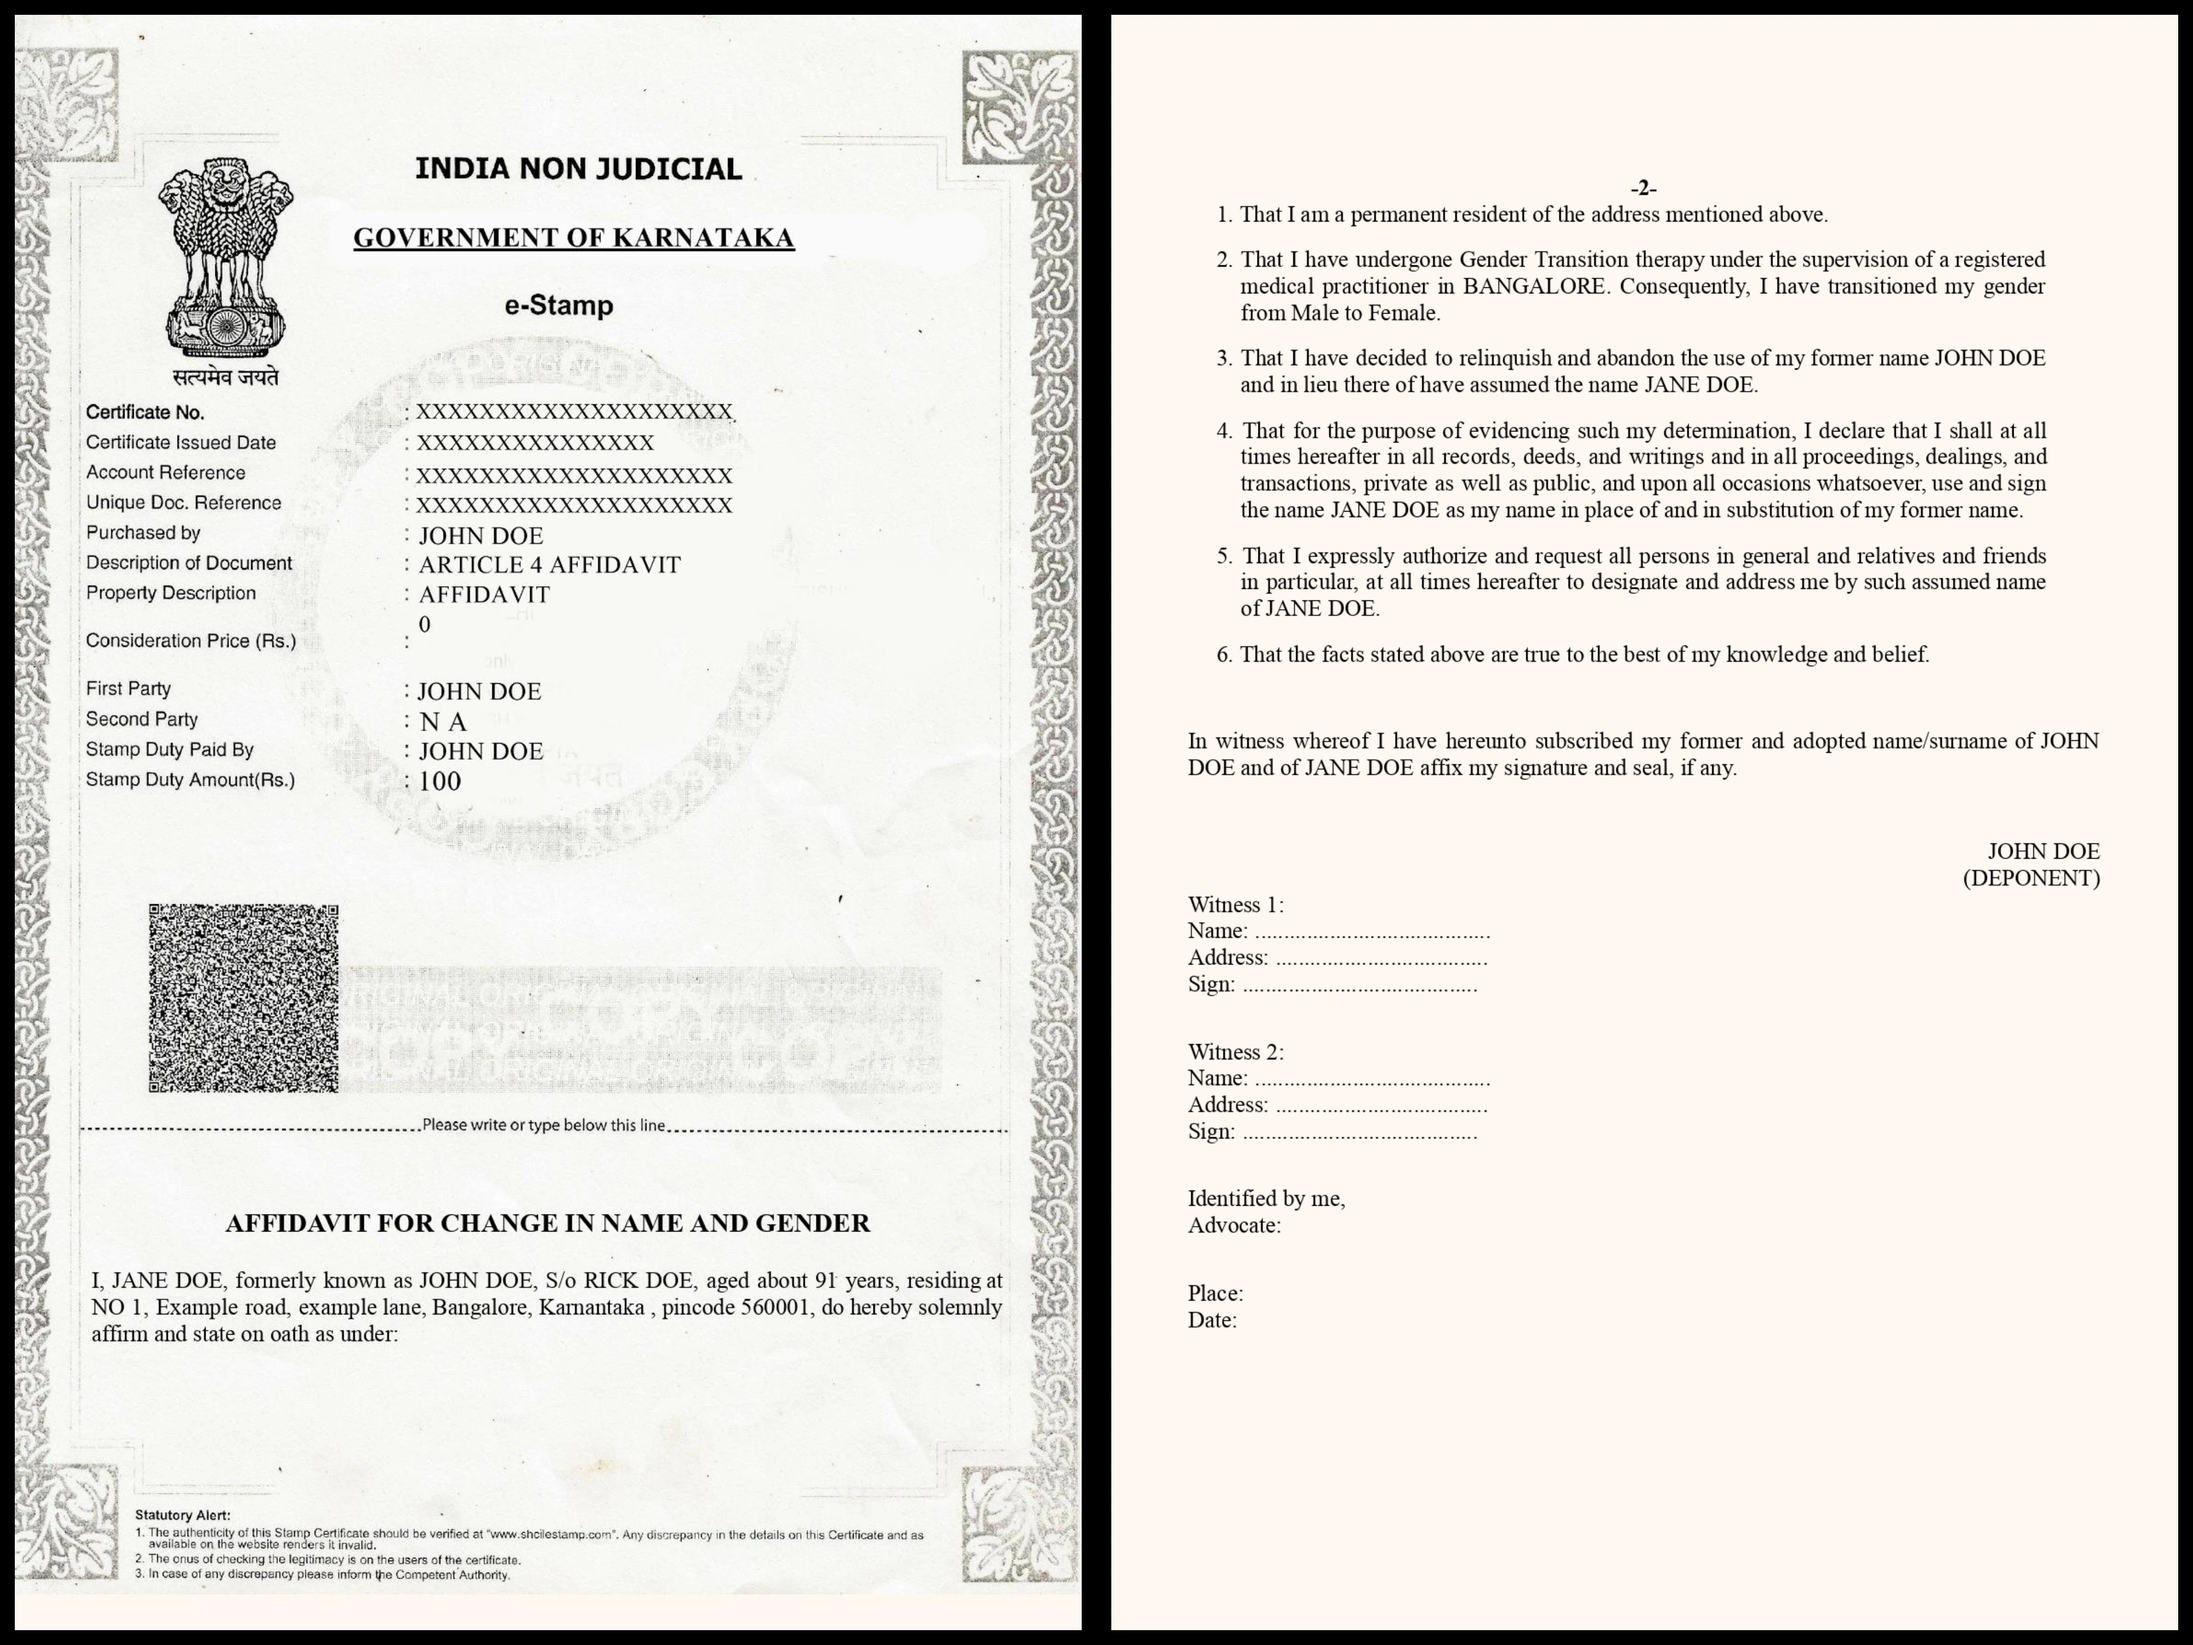
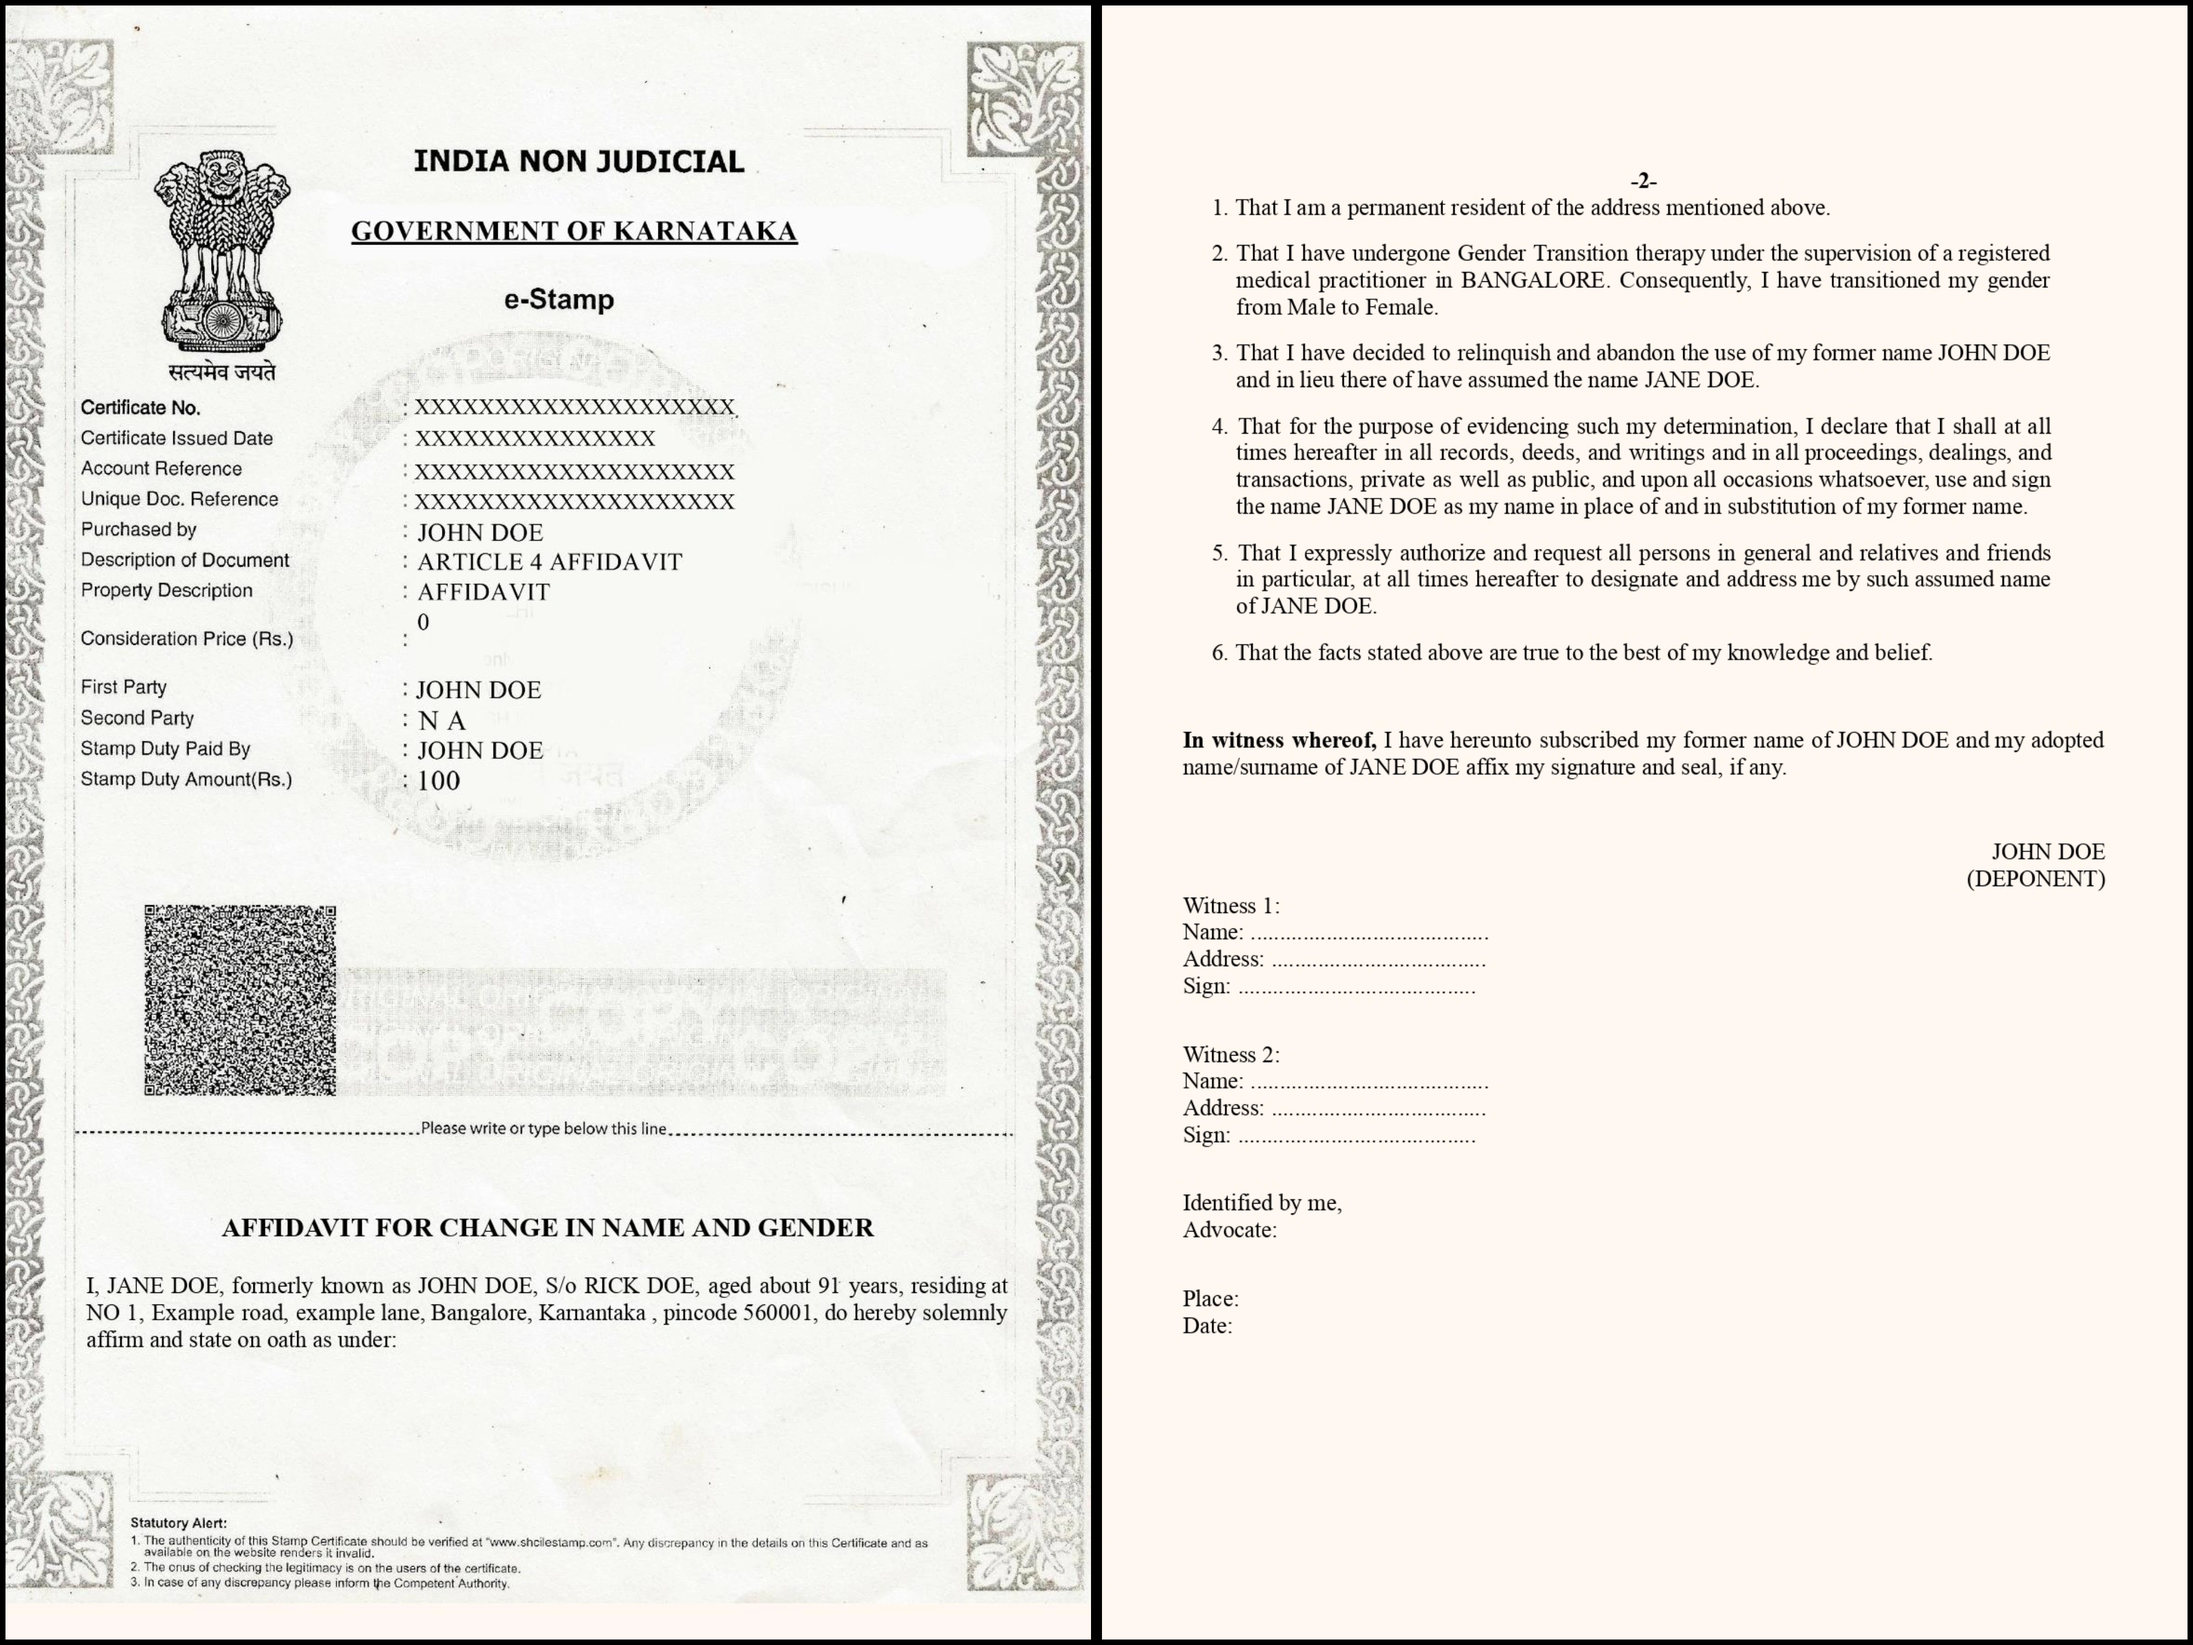
x

diff --git a/index.html b/index.html
@@ -137,15 +137,7 @@ details[open] summary {
   margin-top: 10px;
 }
 
-@media (min-width: 768px) {
-  body::before {
-    content: "This tool is optimized for mobile 📱";
-    display: block;
-    text-align: center;
-    padding: 20px;
-    background: #111;
-    color: white;
-  }
+
 
   h1 {
     font-size: 2.1rem;
@@ -160,6 +152,8 @@ details[open] summary {
 <div class="nav">
   <a href="index.html">Guide</a>
   <a href="generator.html">Generator</a>
+  <a href="State-gazette.html">State Gazette</a>
+   <a href="Check-Notification.html">Check Weekly <br> Gazette Notification</a>
   <a href="support.html" style="font-weight:bold;">Support</a>
 
   <img src="assets/trans.gif" class="nav-flag" alt="Trans Flag">
@@ -296,10 +290,10 @@ Preserve multiple physical copies safely for future updates such as Passport.
 </p>
 
 <details class="ref-image">
-<summary> Reference Image</summary>
+<summary> Example Advert</summary>
 
 <div class="details-content">
-<img src="" class="placeholder" alt="Newspaper Advert">
+<img src="ref/Advert_example.webp" alt="Example Advert" loading="lazy">
 </div>
 </details>
 <div class="details-content">
@@ -331,10 +325,10 @@ https://ads.timesofindia.com/
 <p><b>Booking Steps:</b></p>
 
 <p>
-Book commercial ads → Select category: <b>Tenders and Notices</b> →  
-Select type: <b>Display Ad Single Column</b> →  
-Select ad design & city →  
-"I wish to place ad in": <b>Bangalore</b> → Continue →
+Book commercial ads <br>→ Select category: <b>Tenders and Notices</b> <br>→  
+Select type: <b>Display Ad Single Column</b> <br>→  
+Select ad design & city <br>→  
+"I wish to place ad in": <b>Choose your District/City</b> <br>→ Continue <br>
 </p>
 
 <p>
@@ -342,9 +336,9 @@ If prompted, sign in (use your <b>dead name</b> so invoice matches).
 </p>
 
 <p>
-Header: <b>PUBLIC NOTICE</b> →  
-Select individual editions → Choose <b>Economic Times Bangalore</b> →  
-Number of ads: <b>1</b> →  
+Header: <b>PUBLIC NOTICE</b> <br>→  
+Select individual editions <br>→ Choose <b>Economic Times (CHOOSEN CITY)</b> <br>→  
+Number of ads: <b>1</b> <br>→  
 Publishing date: choose carefully (plan physical copy collection)
 </p>
 
@@ -359,9 +353,9 @@ Compose ad:
 </ul>
 
 <p>
-Preview will appear → Click <b>Calculate</b> → Continue →  
-Click <b>Ad Preview</b> → Download preview PDF →  
-Check "I hereby approve..." → Proceed
+Preview will appear <br>→ Click <b>Calculate</b> <br>→ Continue <br>→  
+Click <b>Ad Preview</b> <br>→ Download preview PDF <br>→  
+Check "I hereby approve..." <br>→ Proceed
 </p>
 
 <p>

diff --git a/generator.html b/generator.html
@@ -448,6 +448,8 @@ transform-origin: top left;
 <div class="nav">
   <a href="index.html">Guide</a>
   <a href="generator.html">Generator</a>
+  <a href="State-gazette.html">State Gazette</a>
+   <a href="Check-Notification.html">Check Weekly Notification</a>
   <a href="support.html" style="font-weight:bold;">Support</a>
   <img src="assets/trans.gif" class="nav-flag" alt="Trans Flag">
 </div>
@@ -1074,7 +1076,7 @@ new Paragraph({
   alignment: AlignmentType.JUSTIFIED,
   children: [
     new TextRun({
-      text: `In witness whereof I have hereunto subscribed my former and adopted name/surname of ${oldNameFull} and of ${newNameFull} affix my signature and seal, if any.`,
+      text: `In witness whereof, I have hereunto subscribed my former name of ${oldNameFull} and my adopted name/surname of ${newNameFull} on this day.`,
       size: 24
     })
   ],

diff --git a/Check-Notification.html b/Check-Notification.html
@@ -1,0 +1,1 @@
+nothing yet

diff --git a/State-gazette.html b/State-gazette.html
@@ -1,0 +1,1 @@
+nothing yet
